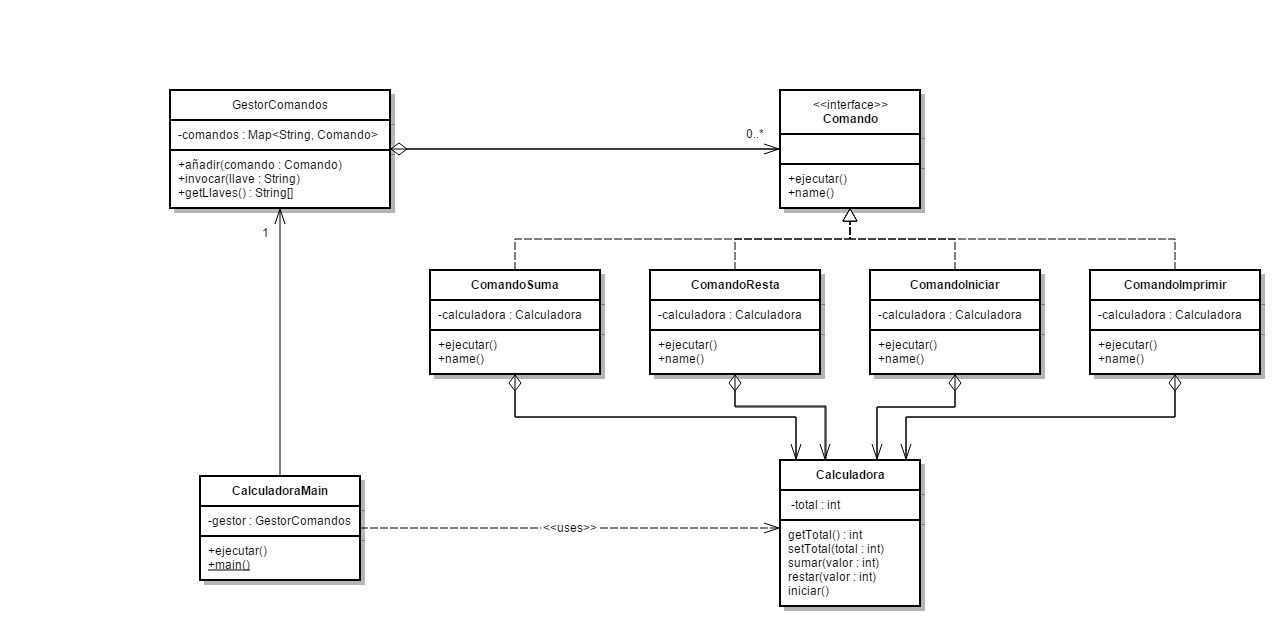
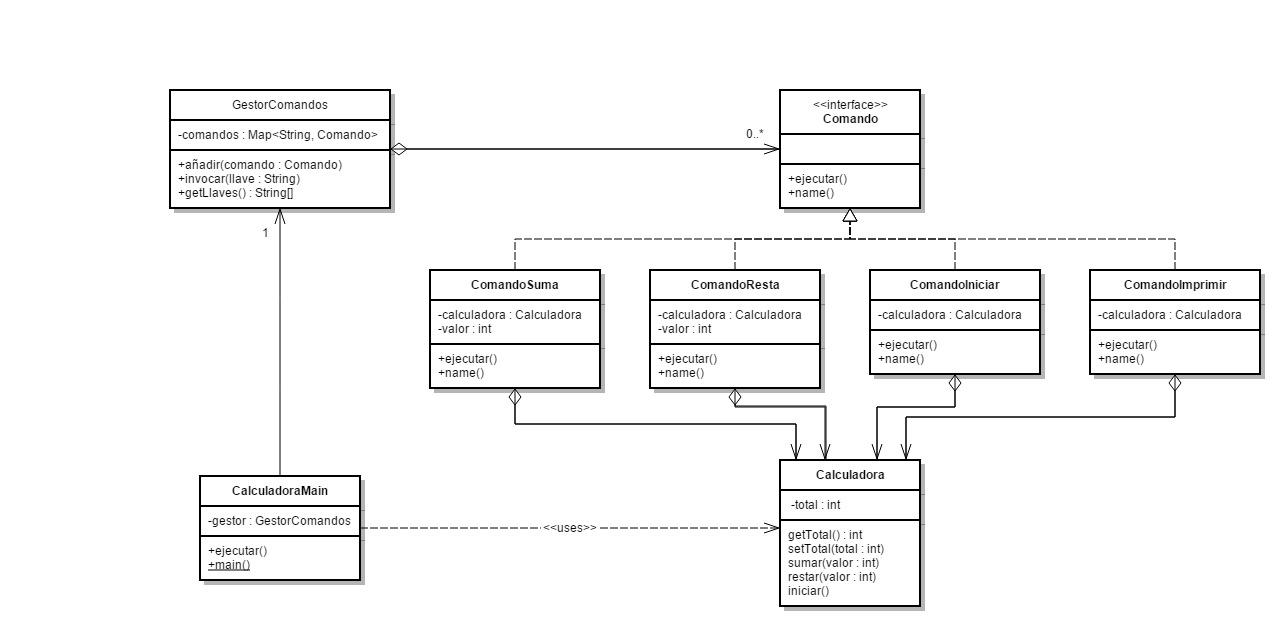
Test implemented class diagram modified

Changed region(s): [[0.3416, 0.5095, 0.6522, 0.6893]]

diff --git a/src/test/java/es/jab/CalculadoraCommand/CalculadoraTest.java b/src/test/java/es/jab/CalculadoraCommand/CalculadoraTest.java
@@ -1,0 +1,69 @@
+package es.jab.CalculadoraCommand;
+
+import static org.junit.Assert.*;
+
+import org.junit.Before;
+import org.junit.Test;
+
+public class CalculadoraTest {
+
+	Calculadora calc;
+	GestorComandos gestor;
+	ComandoSumar comandoSumar;
+	ComandoRestar comandoRestar;
+	ComandoIniciar comandoIniciar;
+	ComandoImprimir comandoImprimir;
+	
+	@Before
+	public void before(){
+		calc = new Calculadora();
+        gestor = new GestorComandos();
+        comandoSumar = new ComandoSumar(calc);
+        comandoRestar = new ComandoRestar(calc);
+        comandoIniciar = new ComandoIniciar(calc);
+        comandoImprimir = new ComandoImprimir(calc);
+        
+        gestor.add(comandoSumar);
+        gestor.add(comandoRestar);
+        gestor.add(comandoIniciar);
+        gestor.add(comandoImprimir);
+	}
+	
+	@Test
+	public void SumaTest() {
+		comandoSumar.setValor(3);
+		gestor.execute("Sumar");
+		assertEquals(3, calc.getTotal());
+		
+	}
+	
+	@Test
+	public void RestarTest() {
+		comandoRestar.setValor(8);
+		gestor.execute("Restar");
+		assertEquals(-8, calc.getTotal());
+		
+	}
+	
+	@Test
+	public void OperacionTest() {
+		comandoSumar.setValor(6);
+		gestor.execute("Sumar");
+		comandoSumar.setValor(3);
+		gestor.execute("Sumar");
+		comandoRestar.setValor(4);
+		gestor.execute("Restar");
+		assertEquals(5, calc.getTotal());
+		
+	}
+	
+	@Test
+	public void IniciarTest() {
+		comandoSumar.setValor(6);
+		gestor.execute("Sumar");
+		gestor.execute("Iniciar");
+		assertEquals(0, calc.getTotal());
+		
+	}
+
+}
